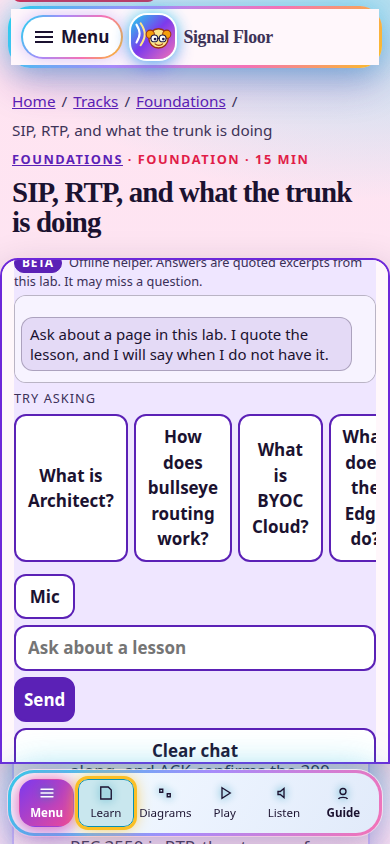
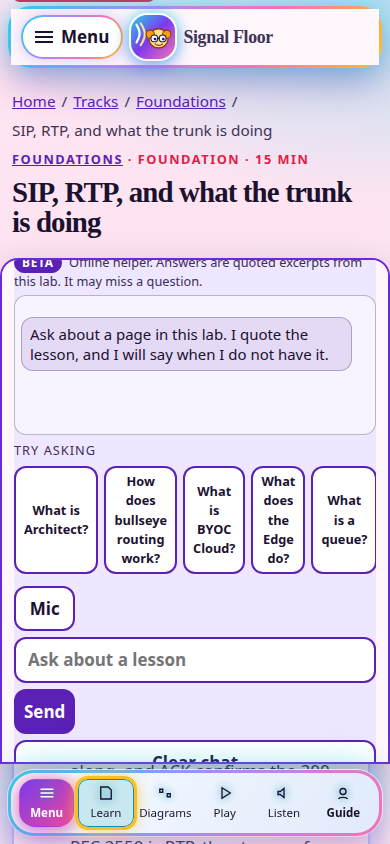
Give the phone answer log enough height to show a reply.
The 88px cap is gone. The log keeps a 140px minimum at phone width, suggestion chips are shorter, and a short sheet uses the space above the bottom bar so the reply stays on screen.

Changed region(s): [[0.0308, 0.4621, 0.9846, 0.9242]]

diff --git a/campus/shared/pybot-chat/chat.css b/campus/shared/pybot-chat/chat.css
@@ -106,13 +106,27 @@
     min-width: 200px;
     max-width: 100%;
   }
+  .py-chat-log {
+    flex: 1 1 auto;
+    min-height: 140px;
+    max-height: none;
+  }
+  .bot-panel .py-chat .bp-chip {
+    min-height: 32px;
+    padding: 4px 8px;
+    font-size: 0.75rem;
+  }
 }
 @media (max-width: 420px) {
-  .py-chat-log { max-height: 88px; }
   .py-chat-form button[type="submit"] { padding-inline: 8px; }
 }
 @media (max-height: 560px) {
   .bot-panel { padding: 4px 8px; }
+  .bot-head-monkey,
+  .bot-offers,
+  .bot-cards,
+  .bot-voice-row,
+  .bot-more,
   .bp-head,
   .bp-bot,
   .bp-scroll { display: none; }
@@ -123,7 +137,7 @@
     padding-top: 0;
     border-top: 0;
     gap: 4px;
-    overflow: hidden;
+    overflow: auto;
   }
   .py-chat-try,
   .py-chat-examples,
@@ -136,7 +150,7 @@
   }
   .py-chat-log {
     flex: 1 1 auto;
-    min-height: 48px;
+    min-height: 140px;
     max-height: none;
     overflow: auto;
     padding: 4px 6px;

diff --git a/tests/lab.spec.js b/tests/lab.spec.js
@@ -40,6 +40,22 @@ test("home, bot, and a lesson at desktop and phone", async ({ page }) => {
   await expect(page.locator(".py-chat-log")).toContainText(/Architect/i);
 });
 
+test("chat answer log stays readable on a phone", async ({ page }) => {
+  await quiet(page);
+  for (const height of [844, 430]) {
+    await page.setViewportSize({ width: 390, height });
+    await page.goto("/campus/");
+    await page.locator("#bot-launcher").click();
+    await page.locator("#py-chat-input").fill("What is Architect?");
+    await page.locator(".py-chat-form button[type='submit']").click();
+    const log = page.locator(".py-chat-log");
+    await expect(log).toContainText(/Architect/i);
+    const box = await log.boundingBox();
+    expect(box).toBeTruthy();
+    expect(box.height).toBeGreaterThanOrEqual(120);
+  }
+});
+
 test("chat input fills the phone sheet", async ({ page }) => {
   await quiet(page);
   for (const height of [844, 430]) {

diff --git a/campus/guide/guide.css b/campus/guide/guide.css
@@ -272,6 +272,9 @@ body.menu-open .bot-nudge { visibility: hidden; }
   .bot-log { max-height: 16vh; overflow: auto; }
   .bot-nudge { bottom: calc(var(--bar-h, 72px) + 92px); }
 }
+@media (max-width: 700px) and (max-height: 560px) {
+  .bot-panel { max-height: calc(100svh - var(--bar-h, 64px) - 8px); }
+}
 
 /* Draggable bot: bounce snap, lift, reset button, hidden under the full-screen menu. */
 .bot-root.is-snapping { transition: left .5s cubic-bezier(.34,1.56,.64,1), top .5s cubic-bezier(.34,1.56,.64,1) !important; }

diff --git a/campus/shared/pybot-chat/ui.js b/campus/shared/pybot-chat/ui.js
@@ -76,6 +76,8 @@ export function paintChat(root, messages, busy) {
   });
   if (busy) log.appendChild(el("p", "py-msg py-msg-bot py-msg-wait", "Looking through the lab…"));
   log.scrollTop = log.scrollHeight;
+  const answer = log.querySelector(".py-msg-bot:last-of-type") || log;
+  answer.scrollIntoView({ block: "nearest", inline: "nearest" });
   const last = [...messages].reverse().find((msg) => msg.role === "bot" && msg.follow);
   chips.replaceChildren();
   if (last && last.follow) {

diff --git a/campus/sw.js b/campus/sw.js
@@ -1,6 +1,6 @@
 /* Scope is the campus directory that contains this file.
    The page registers it with { scope: "./" }. */
-const CACHE = "gccx-lab-v20";
+const CACHE = "gccx-lab-v21";
 const SHELL = [
   "./",
   "./index.html",

diff --git a/campus/shared/pybot-chat/README.md b/campus/shared/pybot-chat/README.md
@@ -100,7 +100,7 @@ Recorded voices in Python Lab are fixed clips. Read aloud uses the browser voice
 
 ## Short screens
 
-`chat.css` lays the panel out as a column. The lesson scroller shrinks. The text field does not. Under 560px of viewport height the header, quick actions, and suggestion chips collapse, and the answer log keeps a 48px minimum with its own scrollbar so the reply can be read. Clear stays available. The host should position the panel with `visualViewport` (width, height, offsetTop) and `dvh`, and listen to `visualViewport` resize and scroll, so a phone keyboard does not cover the field.
+`chat.css` lays the panel out as a column. The lesson scroller shrinks. The text field does not. On a phone the answer log keeps a 140px minimum and no fixed max-height, so a reply stays readable while the sheet scrolls. Suggestion chips are shorter there. Under 560px of viewport height the header, quick actions, and suggestion chips collapse, and the answer log still keeps that 140px minimum with its own scrollbar. Clear stays available. The host should position the panel with `visualViewport` (width, height, offsetTop) and `dvh`, and listen to `visualViewport` resize and scroll, so a phone keyboard does not cover the field.
 
 ## Licence
 
